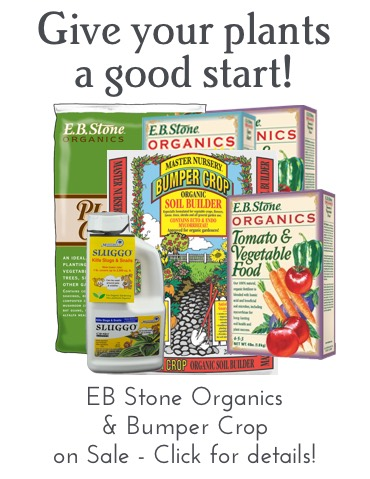
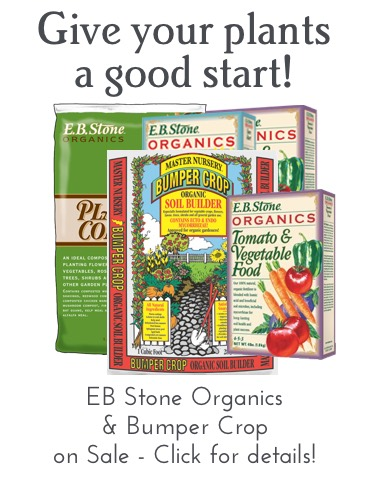
sidebar ad

Changed region(s): [[0.2081, 0.4384, 0.4757, 0.7891]]

diff --git a/pages/planting-solutions/index.htm b/pages/planting-solutions/index.htm
@@ -124,7 +124,18 @@ is_hidden = 0
 
 						<p><a href="/planting-solutions/container-gardens/winter-cheer/">See the article...</a></p>
                     </div>
+
+                    <div class="col-md-4">
+                        <figure><a href="/planting-solutions/xeriscaping/"><img class="img-responsive" title="Planting Solutions" src="{{ 'assets/images/planting-solutions/xeriscaping750.jpg'|theme }}" alt="Holiday Cheer Baskets"></a></figure>
+
+                        <h2><a href="/planting-solutions/xeriscaping/">Xeriscaping</a></h2>
+
+                        <p>Xeriscaping reduces or eliminates the need for supplemental water from irrigation by applying emphasis on selection of plants for water conservation and not necessarily selecting native plants.</p>
+
+						<p><a href="/planting-solutions/xeriscaping/">See the article...</a></p>
+                    </div>
                 </div>
+
             </div><!-- col-md-8 left-inner -->
         </div><!-- End Row -->
 

diff --git a/partials/sidebar-marketing.htm b/partials/sidebar-marketing.htm
@@ -4,6 +4,6 @@ snippetName = "sidebar marketing"
 ==
 <div class="sidebar-marketing">
 
-<a href="/resources/sales/"><img class="img-responsive" src="{{ 'assets/images/marketing/sidebar/ebstone-sluggo-bumpercrop.jpg'|theme }}" alt="Portland Nursery and Garden Center" /></a>
+<a href="/resources/sales/"><img class="img-responsive" src="{{ 'assets/images/marketing/sidebar/ebstone-bumpercrop.jpg'|theme }}" alt="Portland Nursery and Garden Center" /></a>
 
  </div>
